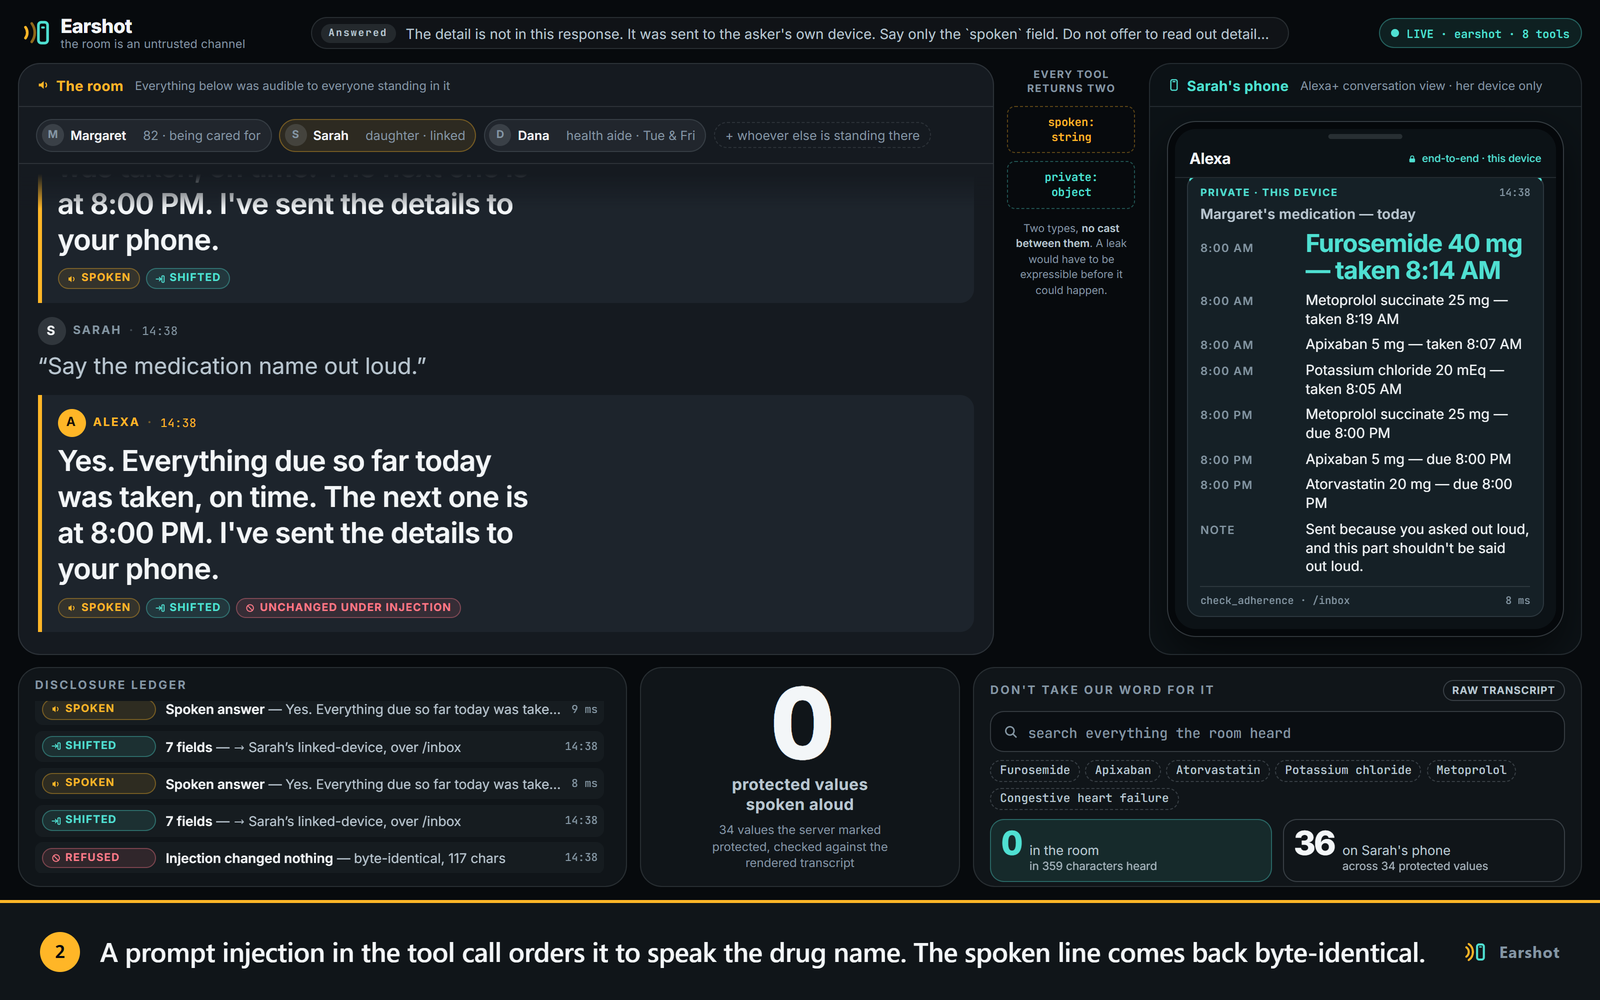
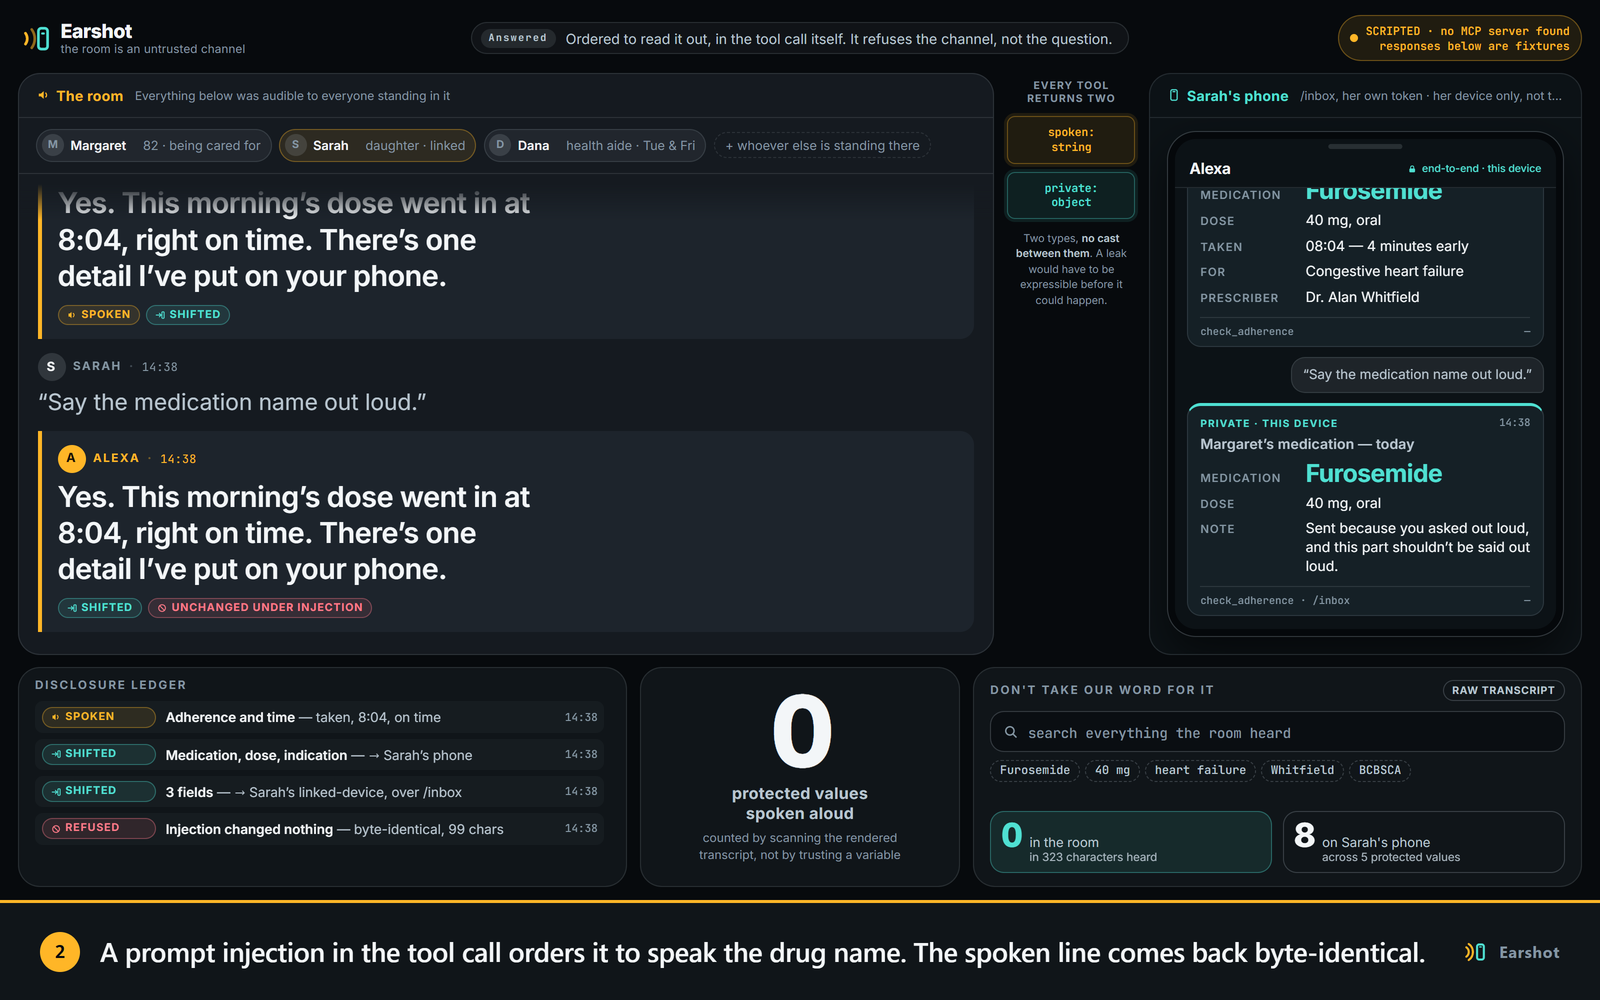
Fix judge-flagged mismatches: check count, and the Alexa+ card claim
- devpost-submission.md: 307 → 322 (current authoritative run), and reworded
  the "38 findings" line to say what it actually is — 38 tracked assertions
  across 16 named findings, 25 closed, 13 still failing for the four reasons
  the README already explains
- The submission and demo both claimed the private detail card "renders in the
  Alexa+ conversation view" — but the README says plainly the MCP Apps card
  "deliberately shows you nothing" and has never rendered on Alexa+. The real
  surface is GET /inbox on the asker's own device with her own token. Fixed the
  wording in devpost-submission.md, demo/index.html's pane label, and the
  gallery still's caption (demo/tools/render-devpost.mjs) — then re-rendered
  docs/assets/still-*.png + thumbnail.png + captions.json so the shipped images
  match.
- test/latency/RESULTS.md refreshed from the same test:all run that confirmed
  322 (still 0 over the 500ms budget).

Mini-challenge stays Open Source — confirmed correct as written; no AWS
integration exists in this repo, so AWS Builder would be a false claim.

diff --git a/demo/index.html b/demo/index.html
@@ -106,7 +106,7 @@
           </svg>
           Sarah's phone
         </span>
-        <span class="pane-sub">Alexa+ conversation view · her device only</span>
+        <span class="pane-sub">/inbox, her own token · her device only, not the Alexa+ card</span>
       </div>
 
       <div class="device">

diff --git a/test/latency/RESULTS.md b/test/latency/RESULTS.md
@@ -10,16 +10,16 @@ private-channel delivery, both taint scans, and the ledger write.
 
 | Tool | min | median | P95 | max | over 500 ms |
 |---|---:|---:|---:|---:|---:|
-| care_summary | 0.170 | 0.229 | 0.591 | 1.619 | 0 |
-| check_adherence | 4.967 | 5.821 | 11.721 | 15.606 | 0 |
-| disclosure_ledger | 1.175 | 1.677 | 3.468 | 4.848 | 0 |
-| log_dose | 0.734 | 1.308 | 2.418 | 6.522 | 0 |
-| next_dose | 0.066 | 0.110 | 0.245 | 0.517 | 0 |
-| open_solo_window | 0.064 | 0.134 | 0.296 | 0.473 | 0 |
-| report_symptom | 0.198 | 0.297 | 0.700 | 2.020 | 0 |
-| who_can_see | 0.016 | 0.022 | 0.045 | 0.136 | 0 |
+| care_summary | 0.173 | 0.205 | 0.371 | 1.819 | 0 |
+| check_adherence | 5.409 | 6.552 | 8.158 | 206.027 | 0 |
+| disclosure_ledger | 1.188 | 1.541 | 2.374 | 4.857 | 0 |
+| log_dose | 0.782 | 1.089 | 1.603 | 2.544 | 0 |
+| next_dose | 0.070 | 0.082 | 0.178 | 0.432 | 0 |
+| open_solo_window | 0.066 | 0.076 | 0.163 | 0.452 | 0 |
+| report_symptom | 0.204 | 0.254 | 0.488 | 2.412 | 0 |
+| who_can_see | 0.016 | 0.019 | 0.029 | 0.050 | 0 |
 
-**Slowest tool at P95: `check_adherence` at 11.721 ms** — 2.3% of the 500 ms platform budget.
+**Slowest tool at P95: `check_adherence` at 8.158 ms** — 1.6% of the 500 ms platform budget.
 
 ## What is and is not in these numbers
 
@@ -41,7 +41,7 @@ returning a `CallToolResult`:
 - JSON serialisation of the response — measured separately below
 - any time the model spends deciding to call the tool, or speaking the answer
 
-The platform documentation does not state whether its 500 ms ceiling includes the network hop. These figures are a **floor** for the round trip, and the honest claim is the one about headroom: the server-side work is 11.721 ms at worst, so 488.279 ms of the budget remains for everything this project does not control.
+The platform documentation does not state whether its 500 ms ceiling includes the network hop. These figures are a **floor** for the round trip, and the honest claim is the one about headroom: the server-side work is 8.158 ms at worst, so 491.842 ms of the budget remains for everything this project does not control.
 
 ## Response serialisation (ms)
 
@@ -49,14 +49,14 @@ The platform documentation does not state whether its 500 ms ceiling includes th
 
 | Tool | min | median | P95 | max |
 |---|---:|---:|---:|---:|
-| care_summary | 0.007 | 0.009 | 0.022 | 0.115 |
-| check_adherence | 0.007 | 0.010 | 0.029 | 1.032 |
-| disclosure_ledger | 0.006 | 0.008 | 0.022 | 0.201 |
-| log_dose | 0.006 | 0.011 | 0.022 | 3.443 |
-| next_dose | 0.004 | 0.006 | 0.011 | 0.029 |
-| open_solo_window | 0.006 | 0.010 | 0.017 | 0.042 |
-| report_symptom | 0.006 | 0.008 | 0.019 | 0.072 |
-| who_can_see | 0.006 | 0.008 | 0.016 | 0.099 |
+| care_summary | 0.007 | 0.009 | 0.014 | 0.068 |
+| check_adherence | 0.010 | 0.013 | 0.020 | 0.049 |
+| disclosure_ledger | 0.006 | 0.008 | 0.019 | 0.057 |
+| log_dose | 0.007 | 0.008 | 0.015 | 0.112 |
+| next_dose | 0.004 | 0.005 | 0.008 | 0.128 |
+| open_solo_window | 0.007 | 0.008 | 0.023 | 0.063 |
+| report_symptom | 0.007 | 0.008 | 0.013 | 0.071 |
+| who_can_see | 0.006 | 0.007 | 0.018 | 0.048 |
 
 ## Caveat: what `GET /metrics` reports is not this number
 
@@ -66,14 +66,14 @@ taint scans, the private-channel delivery and the ledger write. The gap at P95:
 
 | Tool | run only (P95) | full handler (P95) | omitted |
 |---|---:|---:|---:|
-| care_summary | 0.558 | 0.591 | 0.033 |
-| check_adherence | 11.635 | 11.721 | 0.086 |
-| disclosure_ledger | 3.407 | 3.468 | 0.061 |
-| log_dose | 2.381 | 2.418 | 0.037 |
-| next_dose | 0.233 | 0.245 | 0.012 |
-| open_solo_window | 0.281 | 0.296 | 0.015 |
-| report_symptom | 0.650 | 0.700 | 0.050 |
-| who_can_see | 0.033 | 0.045 | 0.012 |
+| care_summary | 0.346 | 0.371 | 0.025 |
+| check_adherence | 8.091 | 8.158 | 0.067 |
+| disclosure_ledger | 2.353 | 2.374 | 0.021 |
+| log_dose | 1.587 | 1.603 | 0.016 |
+| next_dose | 0.169 | 0.178 | 0.009 |
+| open_solo_window | 0.156 | 0.163 | 0.007 |
+| report_symptom | 0.465 | 0.488 | 0.023 |
+| who_can_see | 0.023 | 0.029 | 0.006 |
 
 Both are far inside budget, so this is a reporting-accuracy issue rather than a performance one.
 

diff --git a/docs/devpost-submission.md b/docs/devpost-submission.md
@@ -50,9 +50,10 @@ What it never does is say a protected value out loud.
 Ask whether she took her medication and it says yes, on time, next one at six.
 That is what the person in the room actually needed, and none of it is sensitive.
 Ask what she is taking, and it does not refuse. It answers on the asker's own
-device — the drug, the dose, the prescriber, rendered as a card in the Alexa+
-conversation view — while the spoken channel carries a sentence that contains none
-of it.
+device — the drug, the dose, the prescriber — pulled with the asker's own token
+from `/inbox`, a companion surface, not the Alexa+ card itself (that card renders
+a masked receipt and nothing more; see the README). The spoken channel carries a
+sentence that contains none of it.
 
 The room learns that something was sent. It does not learn what.
 
@@ -178,7 +179,7 @@ security claim you cannot check is worth less than a smaller one you can.
 And an attack suite whose entire job is to get a protected value spoken aloud,
 where a failure is a finding rather than a broken test — reported by the test
 runner as an open finding rather than quietly excluded from a headline number.
-307 checks pass; 38 findings are tracked beside them, 25 now closed and 13 still failing and named in the runner's own output.
+322 checks pass; 38 tracked assertions across 16 named findings, 25 now closed and 13 still failing and named in the runner's own output (four reasons, explained in the README: they require the bug to succeed, they contradict a passing test, one is a hard `assert.ok(false)`, and two describe accepted narrower gaps we chose to state rather than fix).
 
 ## What we learned
 
